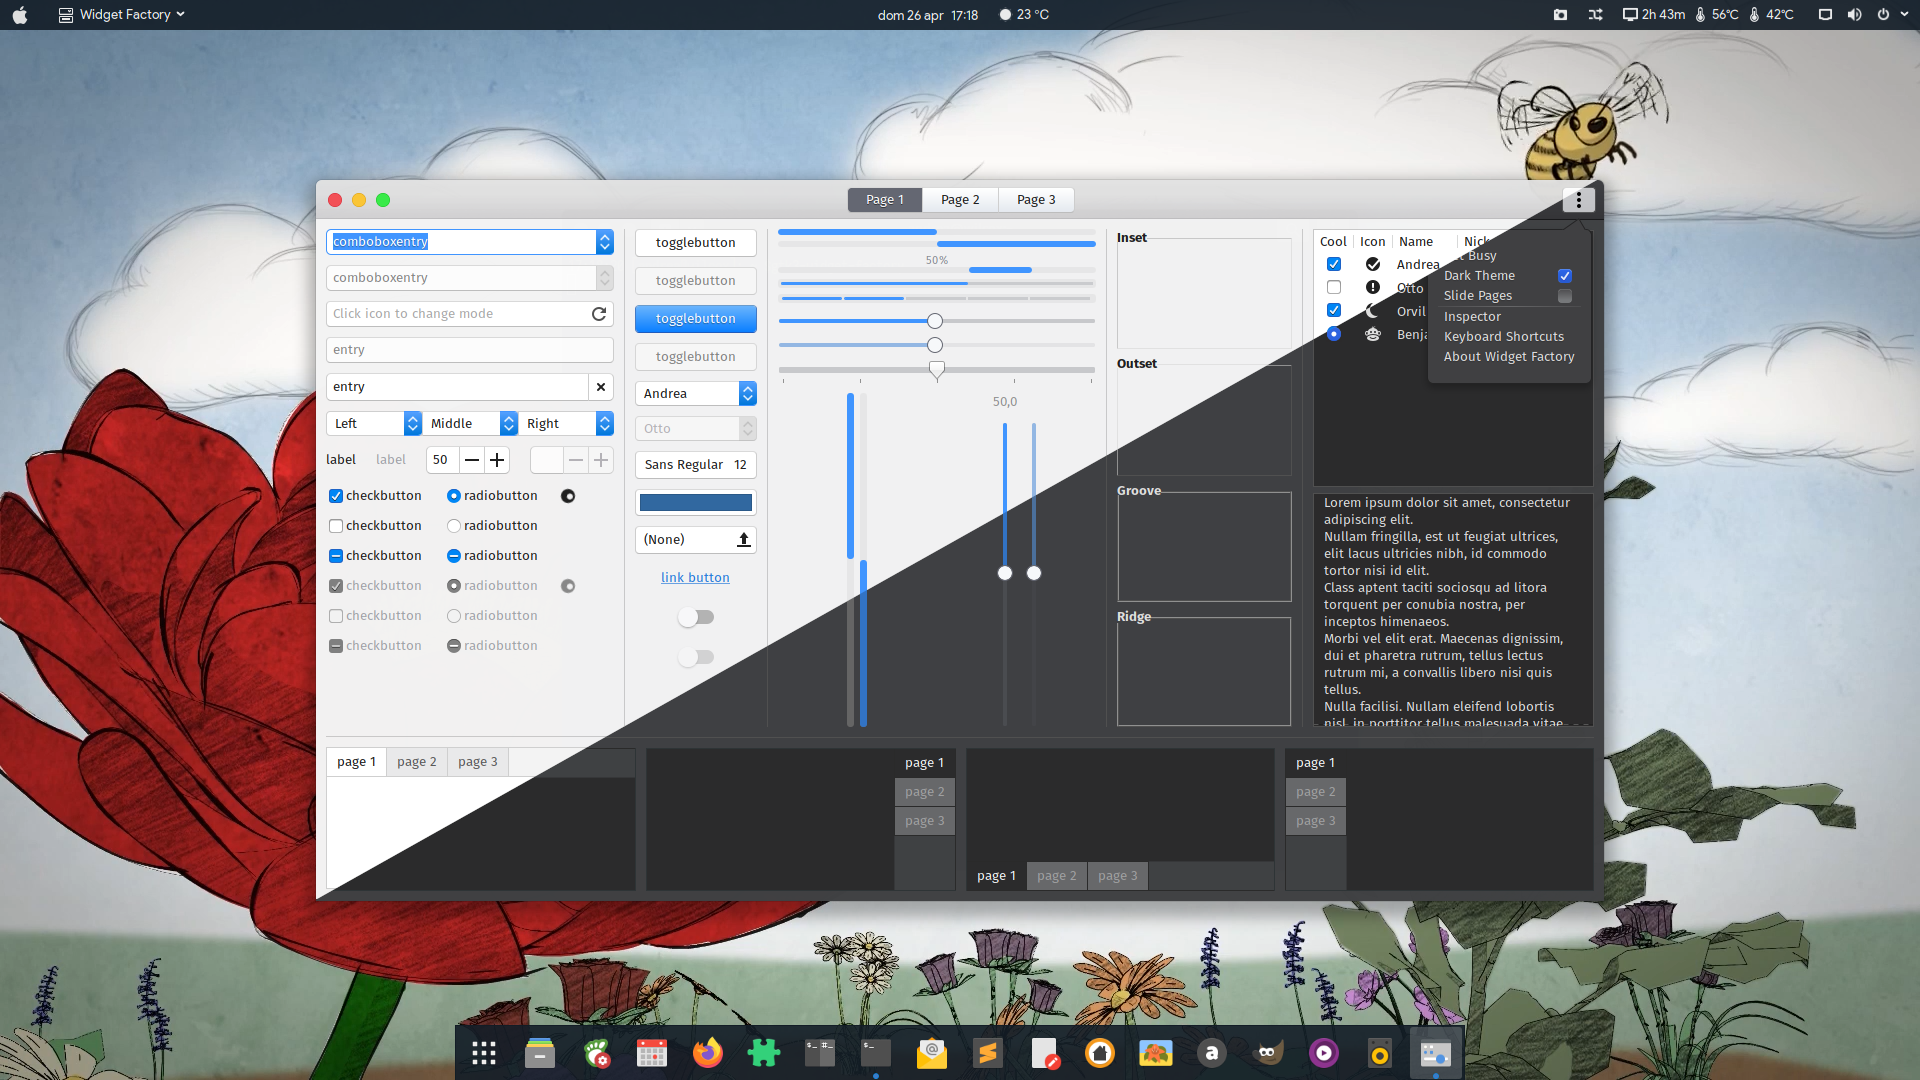
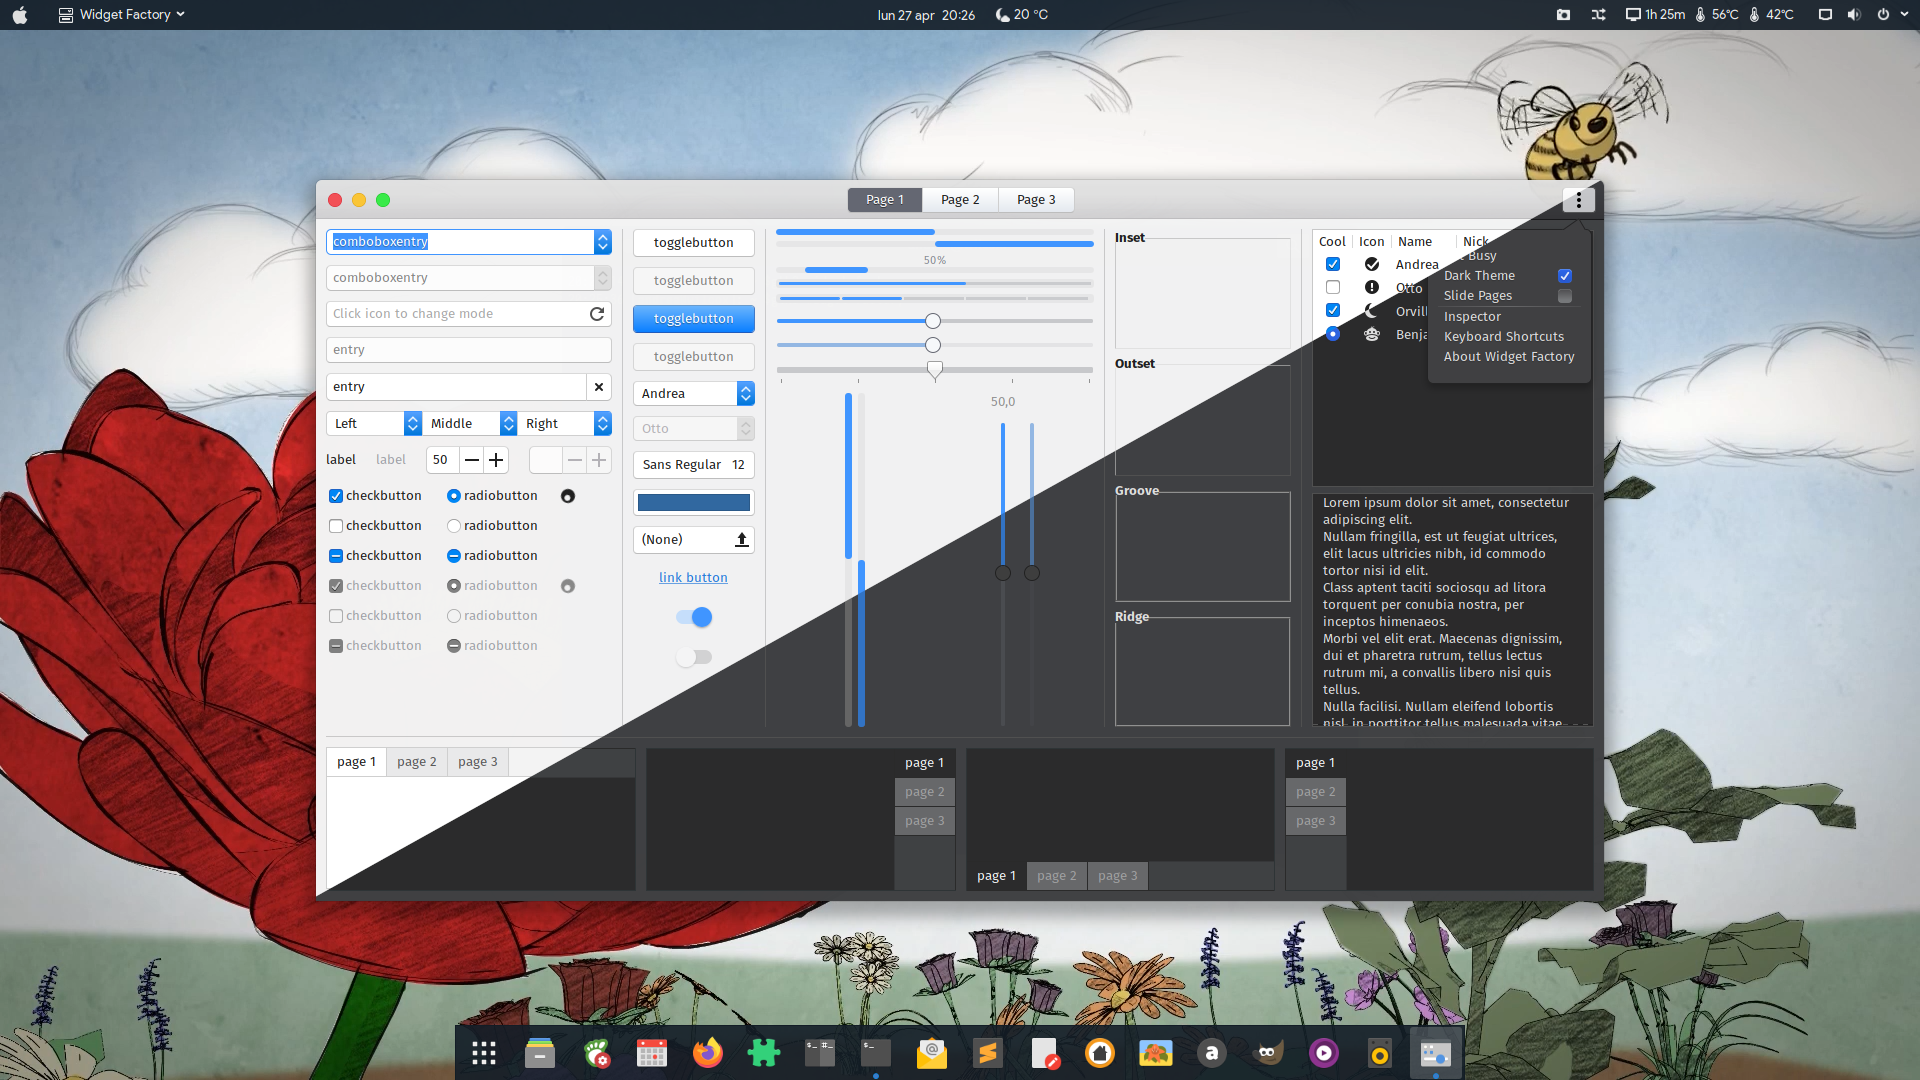
update McOS screenshot

diff --git a/McOS/gtk-3.0/gtk-dark.css b/McOS/gtk-3.0/gtk-dark.css
@@ -11150,8 +11150,8 @@ scale fill:disabled {
 
 scale slider {
 
-  background-color: #f6f8fa;
-  border: 1px solid #646772;
+  background-color: #3e3e3e;
+  border: 1px solid #202020;
   border-radius: 100%;}
  
 scale highlight {
@@ -11165,7 +11165,7 @@ scale highlight:disabled {
 
 scale slider:hover {
 
-  background-color: white; }
+  background-color: #729fcf; }
 
 scale slider:active {
 
